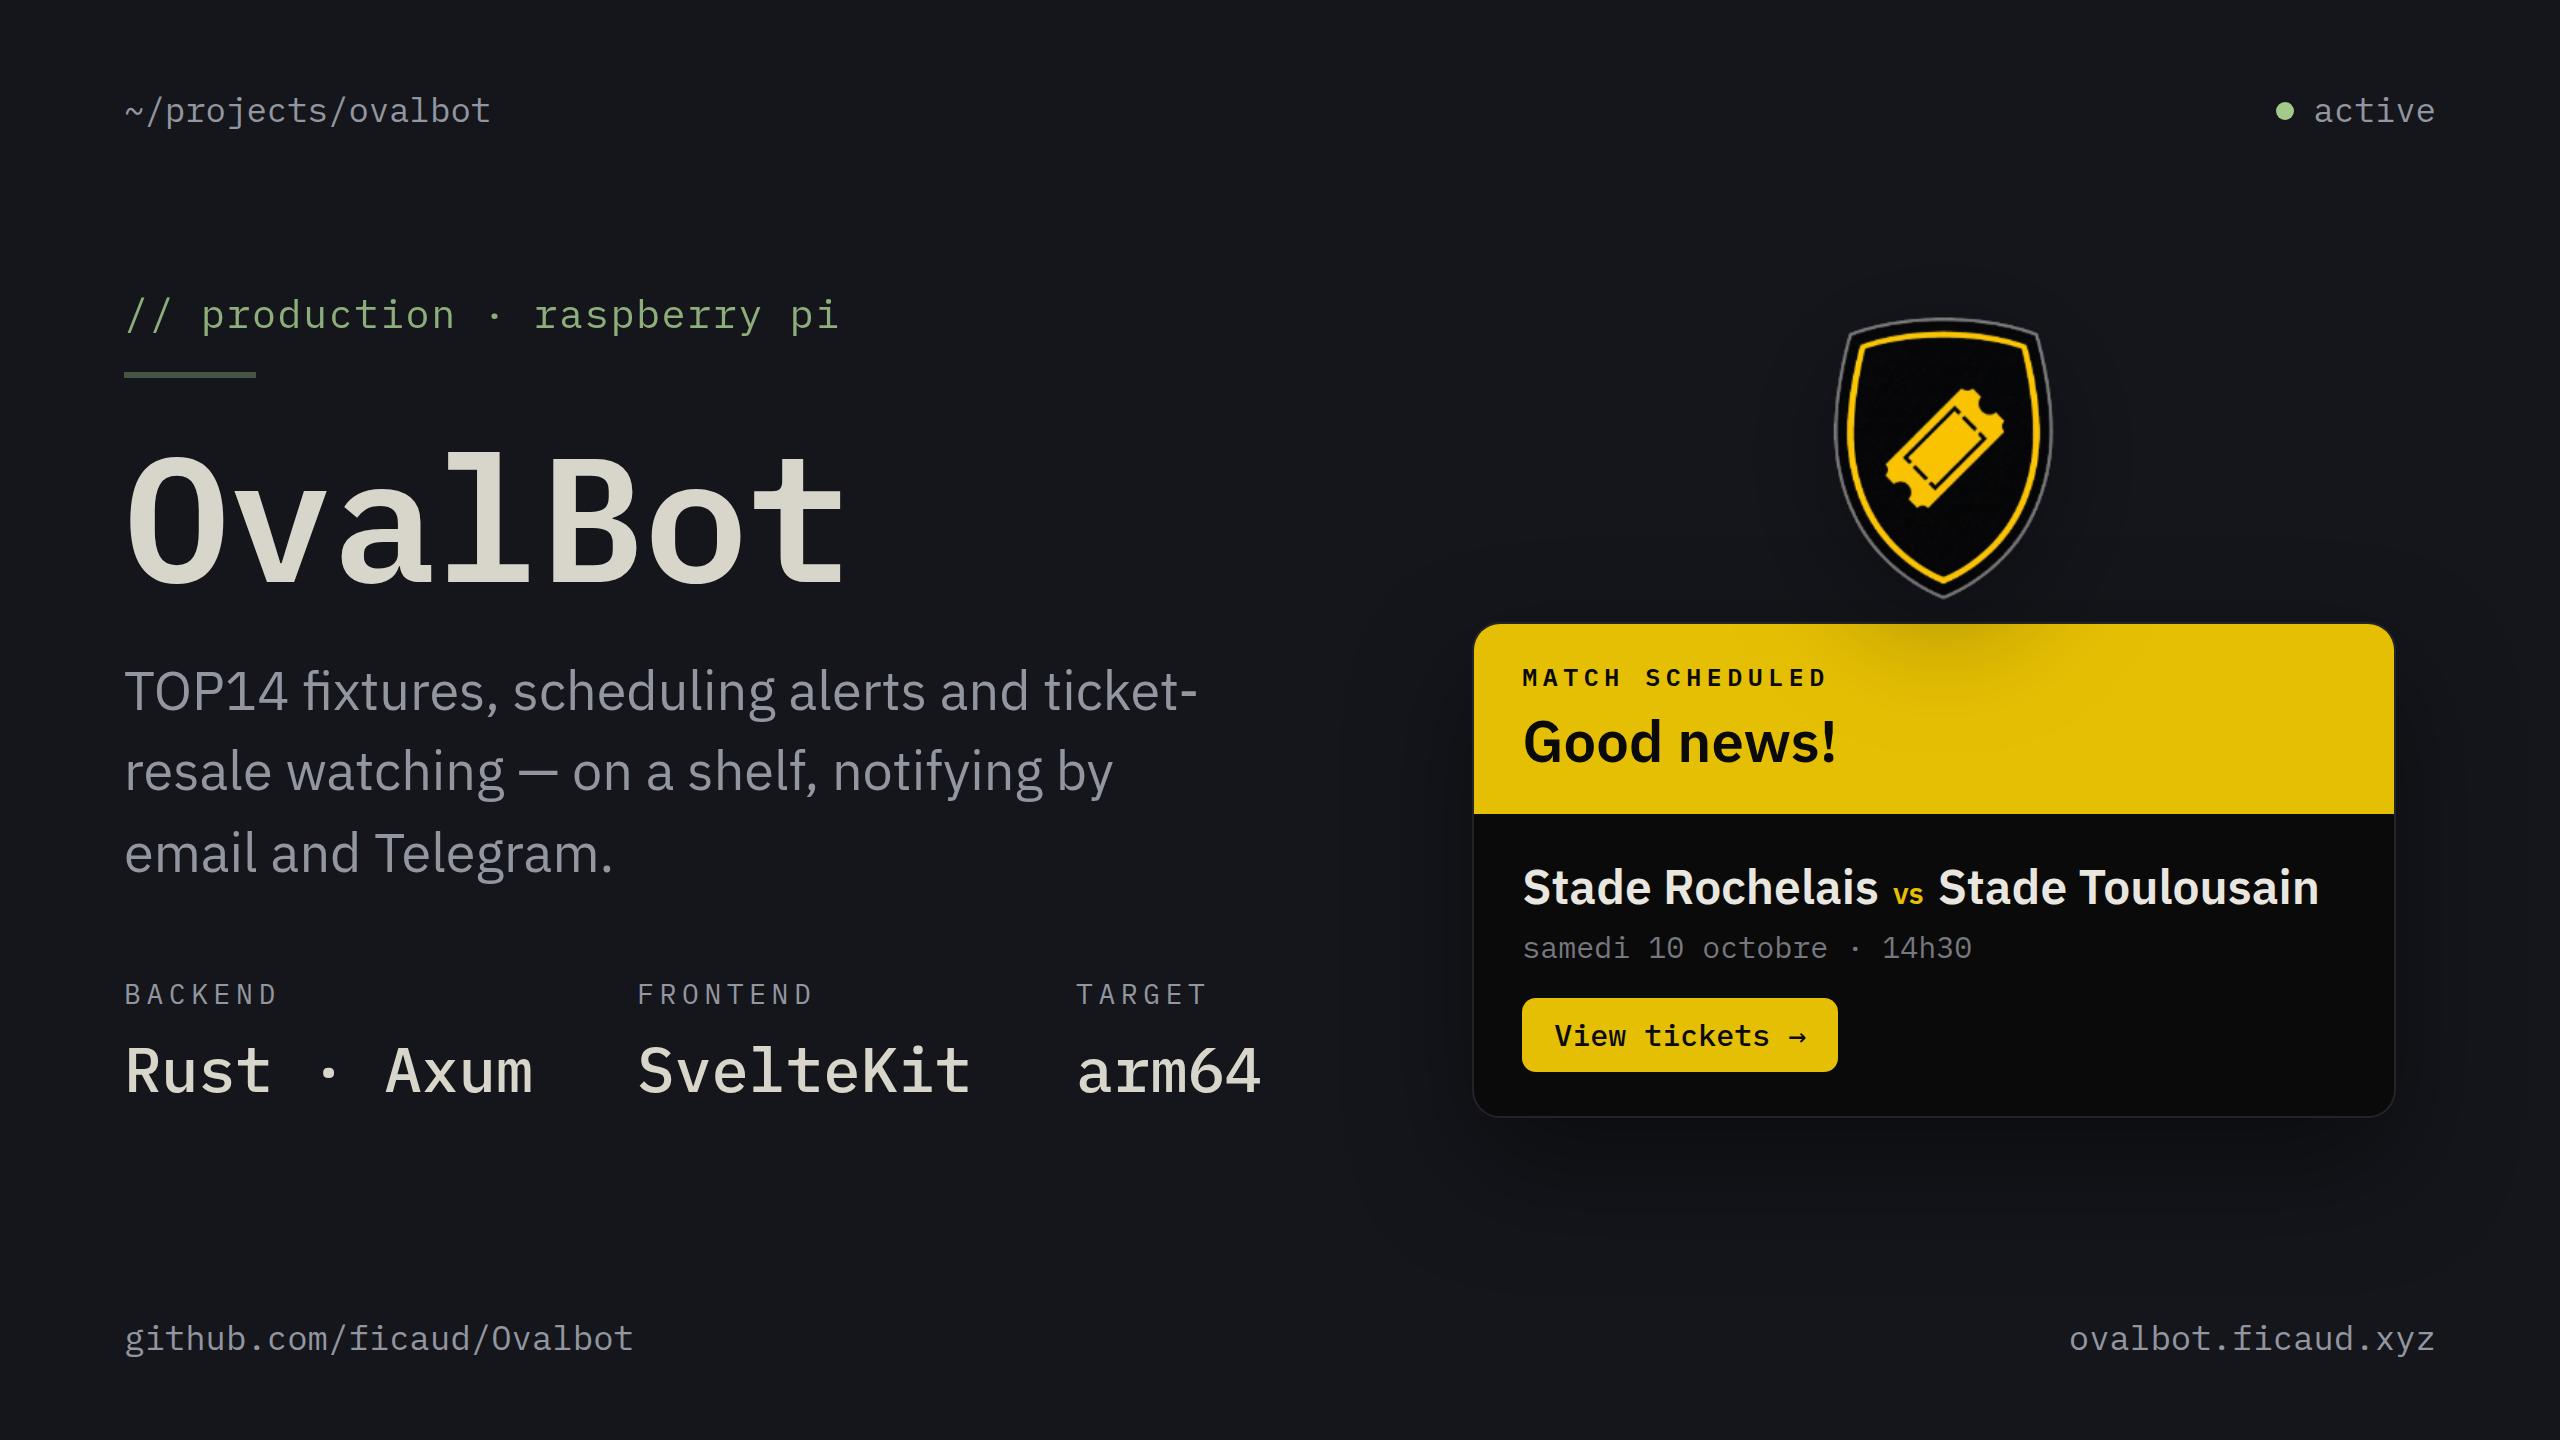
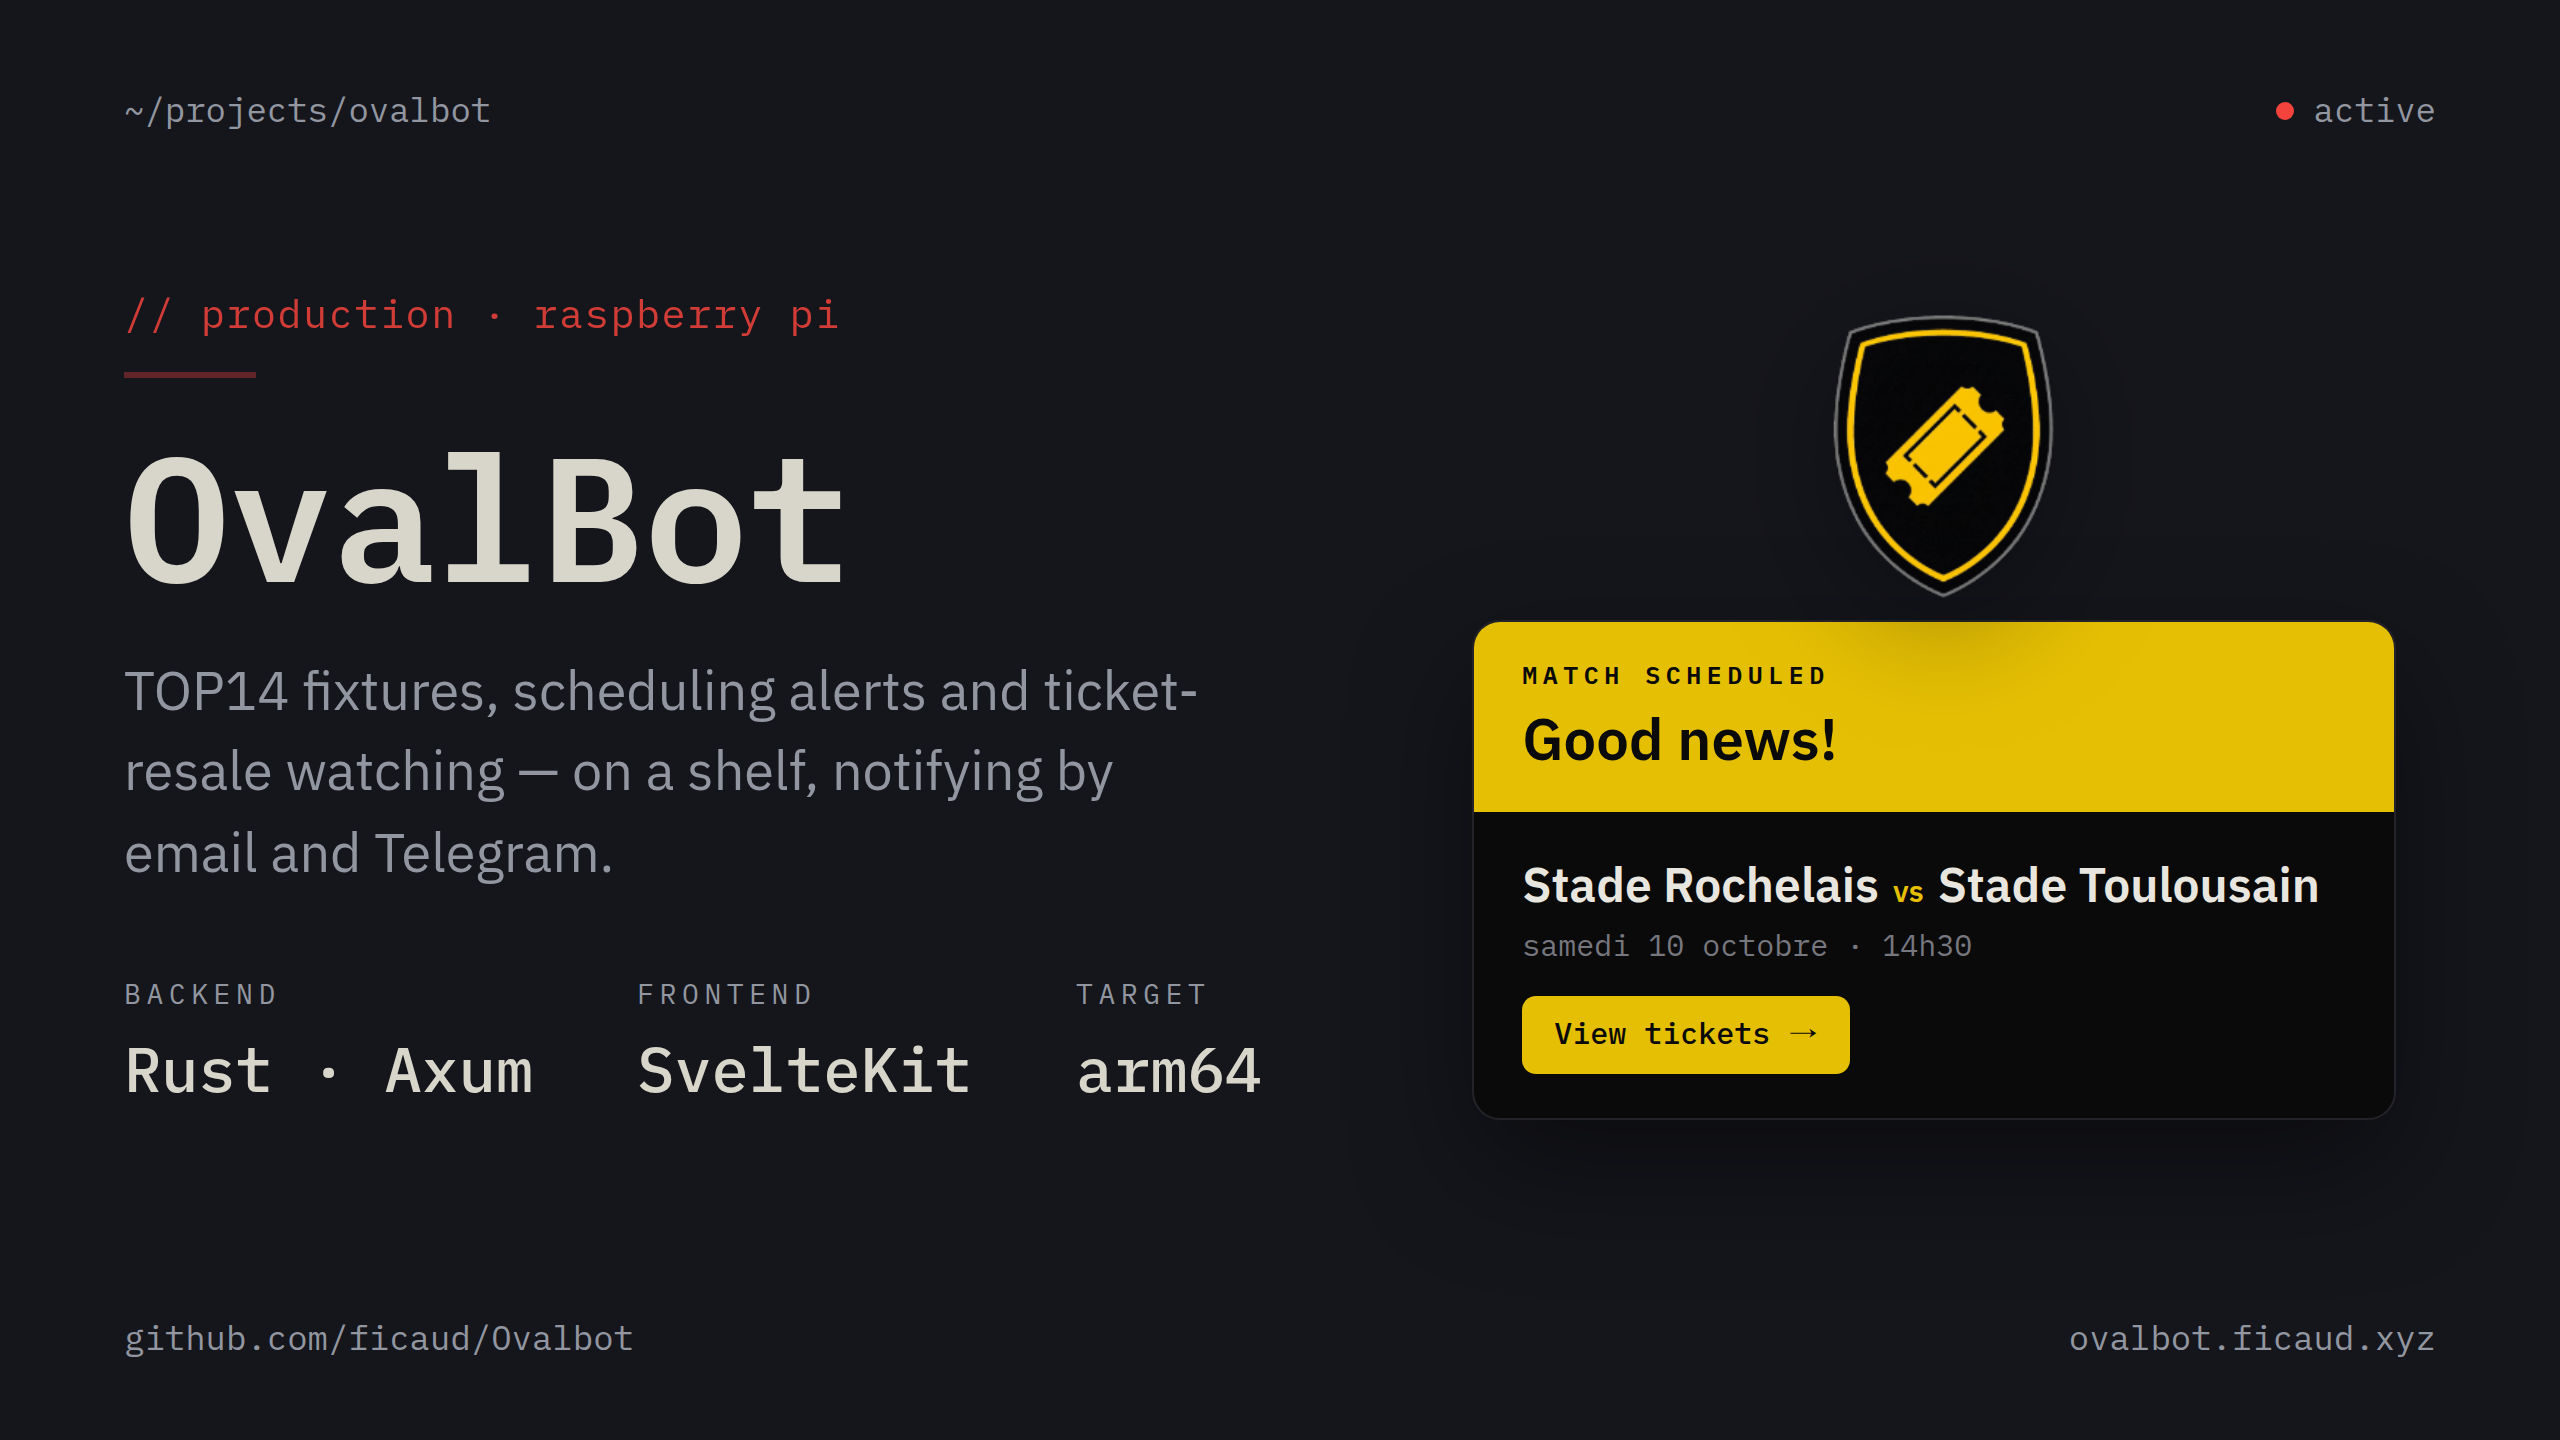
changed(styles/): change secondary color to red
intead of green to match favicon.

diff --git a/src/styles/tokens.css b/src/styles/tokens.css
@@ -11,7 +11,7 @@
 :root {
   color-scheme: dark;
 
-  /* Kanagawa-inspired, soft green accent — the only chromatic colour on the site. */
+  /* Kanagawa-inspired, warm red accent — the only chromatic colour on the site. */
   --color-bg: #15161c;
   --color-surface: #1c1e26;
   --color-surface-raised: #23262f;
@@ -19,9 +19,9 @@
   --color-border-strong: #3d424f;
   --color-text: #d8d5ca;
   --color-text-muted: #9296a0;
-  --color-accent: #a3c98b;
-  --color-accent-strong: #c0dfa8;
-  --color-accent-dim: rgb(163 201 139 / 12%);
+  --color-accent: #f3433c;
+  --color-accent-strong: #ff7b72;
+  --color-accent-dim: rgb(243 67 60 / 12%);
 
   --font-mono: 'IBM Plex Mono', ui-monospace, 'SF Mono', Menlo, Consolas, monospace;
   --font-sans: 'IBM Plex Sans', ui-sans-serif, system-ui, -apple-system, 'Segoe UI', sans-serif;
@@ -45,7 +45,7 @@
 }
 
 /* Kanagawa Lotus-derived light palette: warm cream, no pure white,
-   same soft green accent darkened for contrast on light ground. */
+   same warm red accent darkened for contrast on light ground. */
 
 @media (prefers-color-scheme: light) {
   :root:not([data-theme='dark']) {
@@ -58,9 +58,9 @@
     --color-border-strong: #beb9aa;
     --color-text: #43444e;
     --color-text-muted: #71747d;
-    --color-accent: #4c9658;
-    --color-accent-strong: #3d7a48;
-    --color-accent-dim: rgb(76 150 88 / 10%);
+    --color-accent: #b83734;
+    --color-accent-strong: #882223;
+    --color-accent-dim: rgb(184 55 52 / 10%);
   }
 }
 
@@ -74,7 +74,7 @@
   --color-border-strong: #beb9aa;
   --color-text: #43444e;
   --color-text-muted: #71747d;
-  --color-accent: #4c9658;
-  --color-accent-strong: #3d7a48;
-  --color-accent-dim: rgb(76 150 88 / 10%);
+  --color-accent: #b83734;
+  --color-accent-strong: #882223;
+  --color-accent-dim: rgb(184 55 52 / 10%);
 }

diff --git a/docs/spec.md b/docs/spec.md
@@ -181,7 +181,7 @@ Textes d'interface (labels de nav, « Voir mon CV », etc.) dans des fichiers de
 | **Accessibilité** | Contrastes suffisants dans les deux thèmes, structure sémantique (landmarks, titres), focus visible. |
 | **SEO de base** | Titres/meta-description par page, Open Graph, sitemap.xml, robots.txt, URLs propres. Pas de stratégie SEO avancée. |
 | **Typographie** | Double visage : une police **à chasse fixe (mono)** pour les éléments « marques du terminal » (titre/nom, tags, métadonnées, prompt décoratif), une police **sans-serif lisible** pour le corps de texte — pour rester digeste pour une audience non technique. |
-| **Palette** | Inspirée des thèmes NeoVim modernes (ex. *tokyonight*, *kanagawa*) : fond sombre profond, texte doux (pas de blanc pur), **une couleur d'accent unique** (bleu/cyan ou vert doux) pour liens et mises en évidence. Le thème clair est dérivé de *kanagawa Lotus* : crème chaud, même accent foncé pour le contraste. Toutes les couleurs passent par les variables sémantiques de `src/styles/tokens.css`. |
+| **Palette** | Inspirée des thèmes NeoVim modernes (ex. *tokyonight*, *kanagawa*) : fond sombre profond, texte doux (pas de blanc pur), **une couleur d'accent unique** (rouge chaud) pour liens et mises en évidence. Le thème clair est dérivé de *kanagawa Lotus* : crème chaud, même accent foncé pour le contraste. Toutes les couleurs passent par les variables sémantiques de `src/styles/tokens.css`. |
 | **Direction artistique** | Style « terminal propre » : touches discrètes comme un prompt décoratif (`~`, `>`, chemin du breadcrumb en style path), bordures fines, blocs de code mis en valeur. **Éviter explicitement** : effets CRT/scanlines, animations de machine à écrire, faux shell interactif, surcharge de caractères techniques. |
 | **Fiabilité** | Déploiement automatique à chaque push sur la branche principale. |
 
